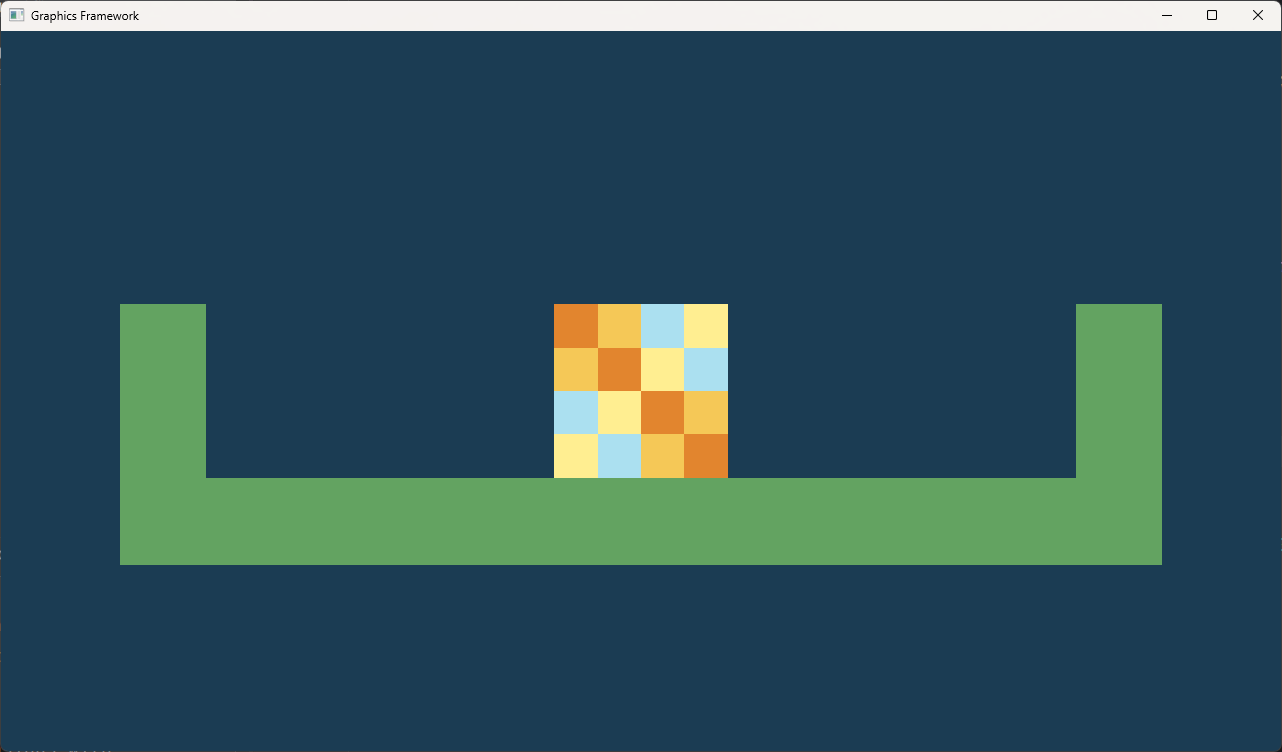
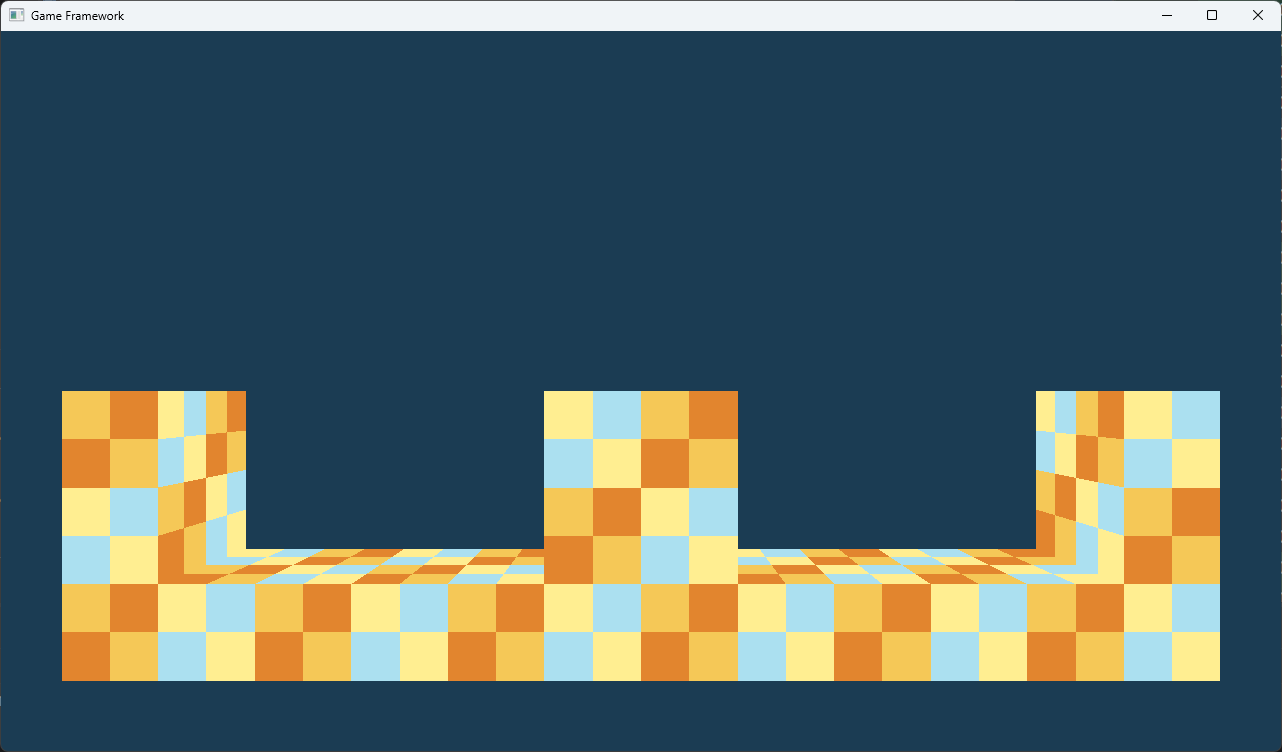
Rename project in `README.md` from `Graphics Framework` to `Game Framework`.

diff --git a/README.md b/README.md
@@ -1,4 +1,4 @@
-# Graphics Framework
+# Game Framework
 
 `Work in progress`
 
